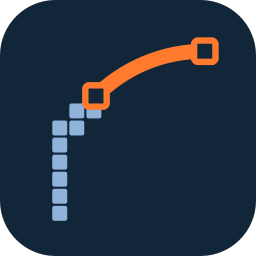
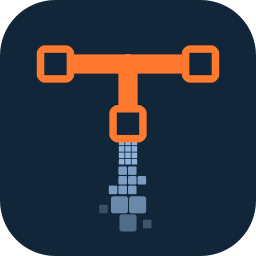
v0.3.1: T-Bildmarke, Tesseract neben die EXE legen
- Neues App-Icon: T aus Vektorlinie (oben) und Rasterpixeln (unten)
- Release-Build v0.3.0 scheiterte am EXE-Selbsttest (gebündeltes
  Tesseract nicht gefunden). Tesseract wird jetzt nach PyInstaller als
  Ordner dist/Traceify/tesseract kopiert und vorab geprüft.
- Selbsttest gibt den Tesseract-Pfad aus

Claude-Session: https://claude.ai/code/session_01Amz6wLaxog4nv23uKruCy4

Changed region(s): [[0.125, 0.125, 0.875, 0.9062]]

diff --git a/traceify/__main__.py b/traceify/__main__.py
@@ -11,7 +11,7 @@ def selftest() -> int:
 
     from . import __version__
     from .core.pipeline import ConvertSettings, convert
-    from .core.ocr import tesseract_available, available_languages
+    from .core.ocr import _tesseract_cmd, available_languages, tesseract_available
     from .export import export
 
     img = np.full((400, 600), 255, np.uint8)
@@ -28,7 +28,7 @@ def selftest() -> int:
     assert pymupdf.__name__
     msg = (f"Traceify {__version__} Selbsttest: {st} | Tesseract: "
            f"{'ja ' + '+'.join(l for l in available_languages() if l in ('deu', 'eng')) if tesseract_available() else 'nein'}"
-           f" | Ausgabe: {out}")
+           f" | Pfad: {_tesseract_cmd()} | Ausgabe: {out}")
     print(msg)
     try:
         with open(os.path.join(out, "selftest.txt"), "w", encoding="utf-8") as f:

diff --git a/traceify/__init__.py b/traceify/__init__.py
@@ -1,5 +1,5 @@
 """Traceify – Raster- und PDF-Zeichnungen in CAD- und CNC-Dateien umwandeln."""
-__version__ = "0.3.0"
+__version__ = "0.3.1"
 
 from .api import (BatchItem, ai_settings, batch_convert, convert_file, load_settings,
                   open_file, save_settings)

diff --git a/CHANGELOG.md b/CHANGELOG.md
@@ -1,5 +1,13 @@
 # Changelog
 
+## 0.3.1 – 04.11.2026
+### Neu
+- Neue Bildmarke: ein **T**. Oben die glatte CAD-Vektorlinie mit Ankerpunkten, der Stamm wird nach unten immer pixeliger, wie ein Scan. Das gilt für App-Icon, Taskleiste, Setup und EXE.
+
+### Behoben
+- Windows-Build: Der Release-Build zu v0.3.0 brach im EXE-Selbsttest ab, weil das eingebaute Tesseract nicht gefunden wurde. Tesseract liegt jetzt als eigener Ordner `tesseract\` direkt neben `Traceify.exe`, statt von PyInstaller eingepackt zu werden. Der Build prüft vorab, ob Programm und deutsche Sprachdaten im Paket sind.
+- Der Selbsttest gibt jetzt den gefundenen Tesseract-Pfad aus. Das erleichtert die Fehlersuche.
+
 ## 0.3.0 – 03.11.2026
 ### Neuer Name, Logo, Open Source
 - Das Projekt heißt jetzt **Traceify** (vorher RasterCAD). Paket `traceify`, Startdatei `Traceify_Start_Windows.bat`.
